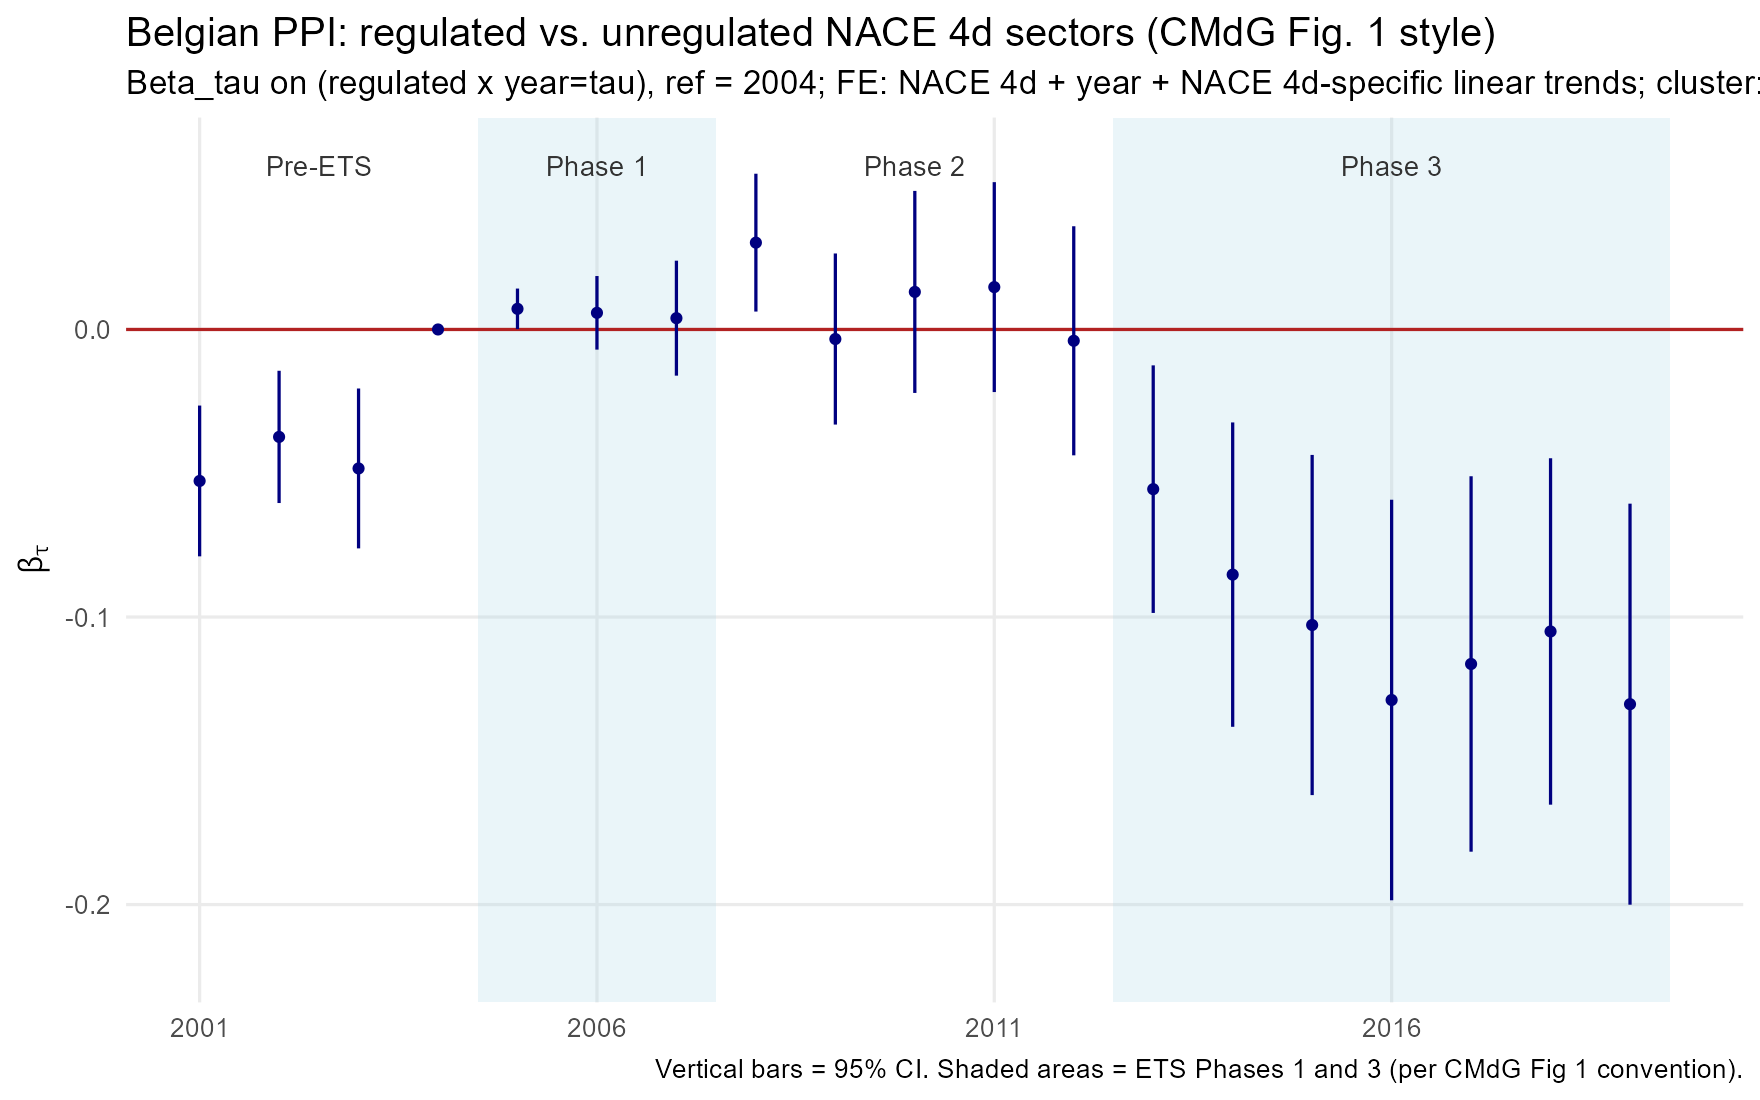
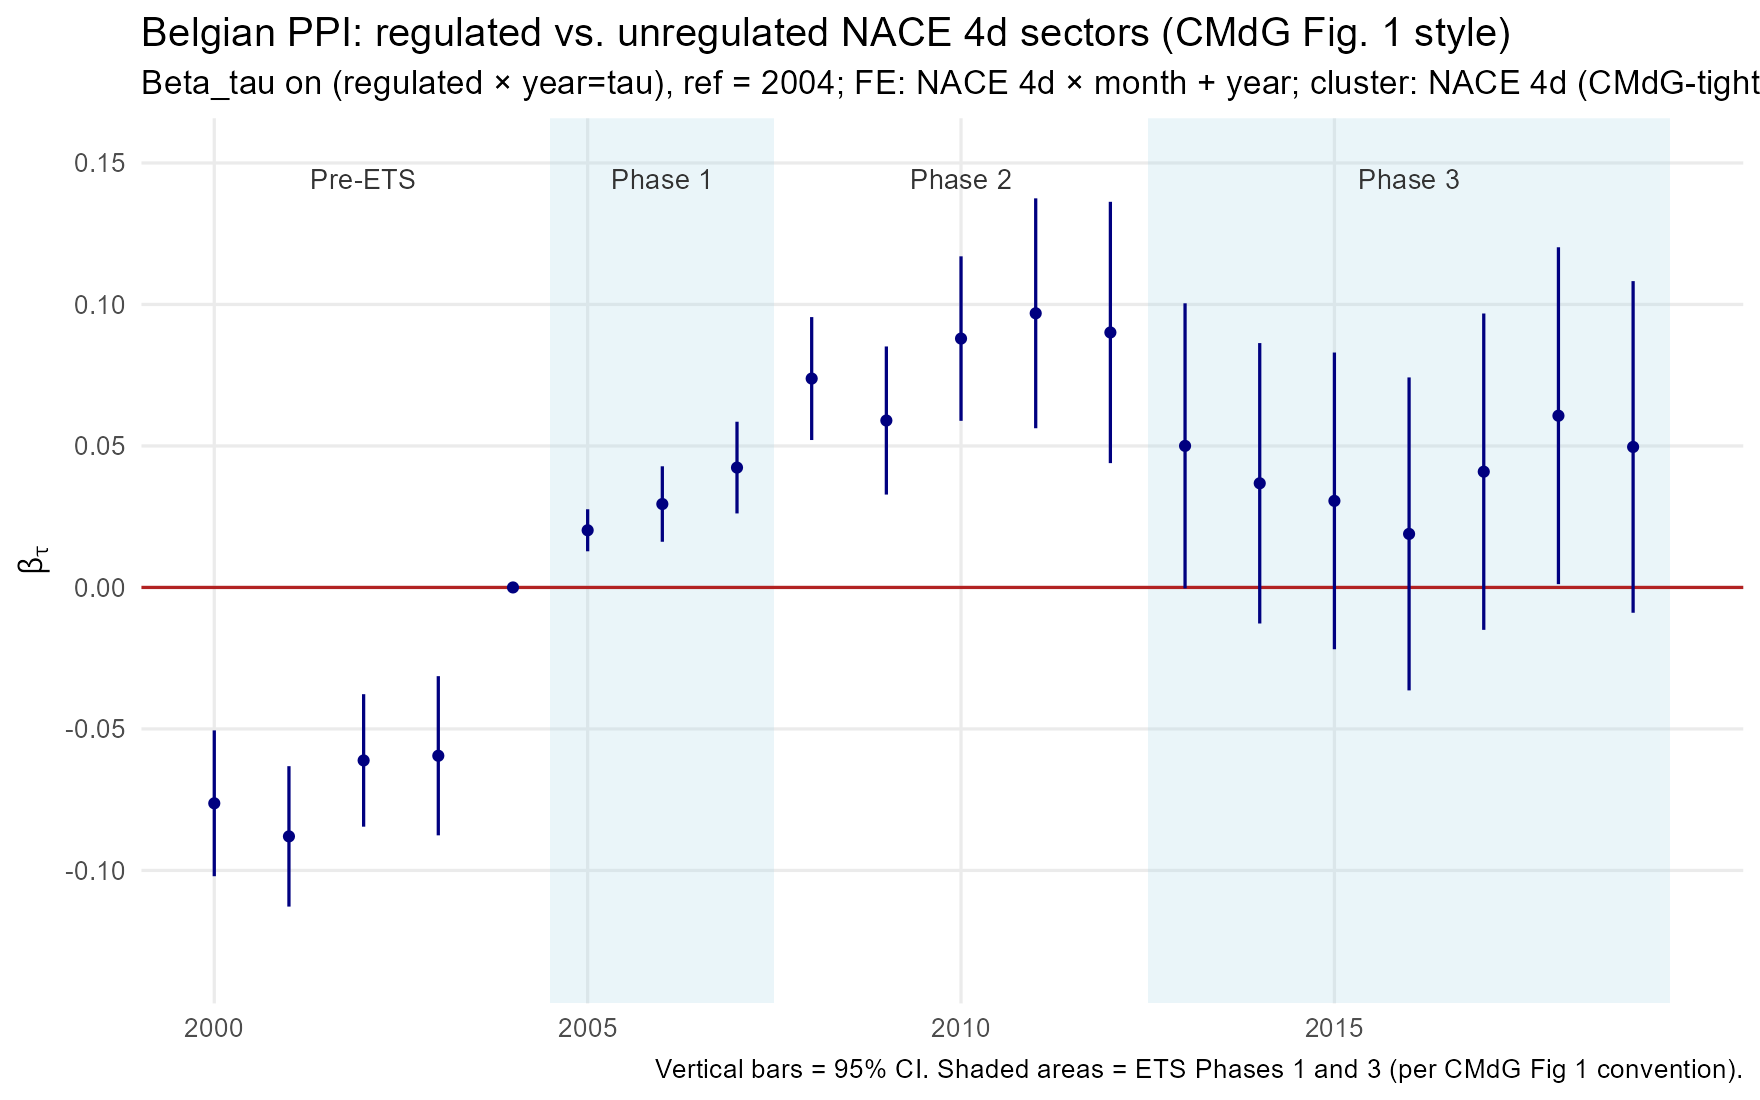
§4 passthrough: Käenzig panel-LP only in main text, with pass-through elasticity β_h on y-axis
Main text restructured. Now contains only the Käenzig (2023) panel-LP
specification, with the IRF y-axis converted to a pass-through elasticity
β_h = γ_h / R̄ where R̄ is the cumulative log-EUA response to a unit Käenzig
structural shock, averaged over h ∈ [12, 24] months (the mid-horizon window
where the EUA IRF is stably identified). β_h = 1 corresponds to full
Shephard's-lemma pass-through.

Result: β_h rises from ~0.16 on impact to ~1.0-1.5 at long horizons. The
95% CI is wide (LP-IV power problem flagged by Käenzig App. C.5) but
encloses full pass-through across most horizons.

Strategy 2 (CMdG-style regulated-vs-unregulated event study) moved to a new
appendix section using the proper CMdG monthly spec on Belgian data 2000-2022.
Strategy 3 (descriptive OLS) removed entirely.

diff --git a/leakage_within_across/sections/passthrough.tex b/leakage_within_across/sections/passthrough.tex
@@ -1,48 +1,35 @@
-A precondition for either margin of leakage is that carbon costs reach buyers as a relative-price increase on regulated suppliers. We document this precondition on the Belgian panel under three identification strategies and use the resulting magnitudes to anchor the CES mapping in \S\ref{sec:domestic_within} and to interpret the across-country results in \S\ref{sec:international}.
+A precondition for either margin of leakage is that carbon costs reach buyers as a relative-price increase on regulated suppliers. We document this precondition on the Belgian panel via a panel local-projection on the \citet{kanzig2023unequal} structural carbon-policy shock, recovering a horizon-by-horizon pass-through elasticity. A regulated-vs-unregulated event-study replication of \citet{CosterMejeanDiGiovanni2024} on Belgian monthly PPI is reported as a robustness exhibit in Appendix~\ref{app:passthrough_cmdj}.
 
-\paragraph{Strategy 1: monthly panel local projections on the Känzig structural carbon-policy shock.} Following the panel local-projection specification of \citet[eq.~10]{kanzig2023unequal}, on the 2010m1--2019m12 monthly NACE 4-digit PPI panel we estimate
+\paragraph{Specification.} Following the panel local-projection specification of \citet[eq.~10]{kanzig2023unequal}, on the 2010m1--2019m12 monthly NACE 4-digit PPI panel we estimate
 \begin{equation}
     \log \text{PPI}_{s,m+h} - \log \text{PPI}_{s,m-1} \;=\; \gamma_h \cdot \big(\omega_{s, t(m)} \times \text{CPShock}_m\big) \;+\; \sum_{j=1}^{6} \theta_{h,j} \log \text{PPI}_{s, m-j} \;+\; \alpha_s \;+\; \delta_m \;+\; \varepsilon_{s,m,h}
     \label{eq:passthrough_strategy1}
 \end{equation}
-separately at each horizon $h \in \{0, 1, \ldots, 36\}$ months. $\text{CPShock}_m$ is the \citet{kanzig2023unequal} VAR-identified carbon-policy structural shock (refined event-day surprise, sign-normalised so a unit shock raises EUA prices on impact); $\omega_{s, t(m)}$ is sector $s$'s rolling cost-share exposure (defined below); $\sum_j \theta_{h,j} \log \text{PPI}_{s, m-j}$ is the lag-augmentation that controls for LHS persistence; $\alpha_s$ and $\delta_m$ are sector and year-month fixed effects; standard errors are clustered on NACE 4-digit. The sample window matches \citet{kanzig2023unequal}'s baseline VAR (1999m1--2019m12), trimmed at 2010m1 by ICAP daily EUA coverage.
+separately at each horizon $h \in \{0, 1, \ldots, 36\}$ months. $\text{CPShock}_m$ is the \citet{kanzig2023unequal} VAR-identified carbon-policy structural shock; $\omega_{s, t(m)}$ is sector $s$'s pre-shock cost-share exposure (defined below); $\sum_j \theta_{h,j} \log \text{PPI}_{s, m-j}$ is the lag-augmentation that controls for LHS persistence; $\alpha_s$ and $\delta_m$ are sector and year-month fixed effects; standard errors are clustered on NACE 4-digit. The sample window matches \citet{kanzig2023unequal}'s baseline VAR (1999m1--2019m12), trimmed at 2010m1 by ICAP daily EUA coverage.
 
-The treatment intensity $\omega_{s, t(m)}$ is the sector's pre-shock marginal-cost-share exposure to ETS allowance costs, defined as a trailing two-year mean updating annually:
+The treatment intensity $\omega_{s, t(m)}$ is the sector's pre-shock marginal-cost-share exposure to ETS allowance costs:
 \begin{equation}
-    \omega_{s, t(m)} \;=\; \frac{1}{2}\sum_{\tau \in \{t(m)-1, t(m)-2\}} \frac{\sum_{j \in \mathcal{E}_s} \text{emissions}_{j,\tau} \cdot \text{EUA}_\tau}{\sum_{j \in \mathcal{E}_s} \text{total cost}_{j,\tau}},
-    \label{eq:intensity_base}
+    \omega_{s, t(m)} \;=\; \frac{\sum_{j \in \mathcal{E}_s} \text{emissions}_{j, t(m)-1} \cdot \text{EUA}_{t(m)-1}}{\sum_{j \in \mathcal{E}_s} \text{total cost}_{j, t(m)-1}},
+    \label{eq:omega}
 \end{equation}
-where $\mathcal{E}_s$ is the set of ETS firms in sector $s$ and $t(m)$ is the calendar year of month $m$. The numerator uses gross emissions (not unallocated shortage) following the windfall-profit logic of \citet{fabra2014}: under marginal pricing, the relevant cost-share is the opportunity cost of emissions, which is gross emissions $\times$ EUA price regardless of free allocation. The construction is rolling rather than fixed because sector emission intensities evolve (technology improvements, scale changes), and the cross-sectional ranking of sectors by ETS exposure is not stable across the eight-year sample. $\omega_{s, t(m)}$ is set to zero for non-ETS NACE 4-digit sectors, which then contribute to the fixed-effect estimation but not to identification of $\gamma_h$.
+where $\mathcal{E}_s$ is the set of ETS firms in sector $s$ and $t(m)$ is the calendar year of month $m$. The numerator uses gross emissions (not unallocated shortage) following the windfall-profit logic of \citet{fabra2014}: under marginal pricing, the relevant cost-share is the opportunity cost of emissions, which is gross emissions $\times$ EUA price regardless of free allocation. $\omega_{s, t(m)}$ updates annually so that the cross-sectional ranking of sectors by ETS exposure tracks evolving emission intensities. $\omega_{s, t(m)}$ is set to zero for non-ETS NACE 4-digit sectors, which then contribute to the fixed-effect estimation but not to identification of $\gamma_h$.
 
-\paragraph{Interpretation of $\widehat{\gamma}_h$.} Following \citet{kanzig2023unequal}'s normalisation convention, the panel-LP coefficient $\widehat{\gamma}_h$ is the cumulative log-PPI response over the $h+1$ months from $m-1$ to $m+h$ to a unit Käenzig structural carbon-policy shock at month $m$, scaled by sector cost-share exposure $\omega_{s, t(m)}$. A unit shock corresponds to a +1\% impact change in HICP energy prices in the underlying SVAR, which in turn corresponds to a sizable upward jump in EUA prices via Käenzig's first-stage identification. For sector $s$ with $\omega_s = 0.01$ (a top-decile-exposed Belgian manufacturing sector), a unit CPShock raises that sector's PPI cumulatively by approximately $\widehat{\gamma}_h \times 0.01$ over the next $h$ months relative to a sector with $\omega = 0$.
+\paragraph{Pass-through elasticity.} The panel-LP coefficient $\widehat{\gamma}_h$ measures the cumulative log-PPI response over $[m-1, m+h]$ to a unit Käenzig structural shock at month $m$, scaled by sector cost-share exposure. We convert it to a pass-through elasticity by dividing by the aggregate cumulative EUA-price response to the same unit shock:
+\begin{equation}
+    \widehat{\beta}_h \;=\; \frac{\widehat{\gamma}_h}{\widehat{R}}, \qquad
+    \widehat{R} \;=\; \frac{1}{13}\sum_{h = 12}^{24} \widehat{R}_h, \qquad
+    \widehat{R}_h \;\text{from} \quad \log \text{EUA}_{m+h} - \log \text{EUA}_{m-1} \;=\; R_h \cdot \text{CPShock}_m + \text{lags},
+    \label{eq:passthrough_beta}
+\end{equation}
+where $\widehat{R}$ is the average cumulative EUA-price response over the mid-horizon window $h \in [12, 24]$ in which the EUA IRF is well-identified.\footnote{Using horizon-specific $\widehat{R}_h$ produces unstable $\widehat{\beta}_h$: at the monthly frequency CPShock explains less than 1\% of $\Delta \log p^{\text{EUA}}$ (the LP-IV power problem flagged by \citet[App.~C.5]{kanzig2023unequal}), so when $\widehat{R}_h$ is near zero the ratio blows up. Averaging over $[12, 24]$ gives a stable denominator while preserving horizon-$h$ variation in $\widehat{\gamma}_h$.} The interpretation is direct: for a sector with cost-share exposure $\omega$, a 1\% increase in EUA prices passes through to sector PPI as $\widehat{\beta}_h \cdot \omega$\,\% at horizon $h$. $\widehat{\beta}_h = 1$ corresponds to full Shephard's-lemma pass-through.
 
-Figure~\ref{fig:ppi_lp_kanzig_style} reports $\widehat{\gamma}_h$. The IRF builds gradually from near zero on impact ($\widehat{\gamma}_0 = 0.005$, n.s.) to a first peak at $\widehat{\gamma}_9 = 0.10$ (s.e.\ $0.05$, $t = 2.10$) over the 9-month horizon, dips back near zero around $h = 14$--$20$, and rebuilds to a second peak at $\widehat{\gamma}_{33} = 0.13$ ($t = 2.42$) over the long horizon. For a top-decile sector ($\omega = 0.01$), peak-horizon pass-through implies a 0.1\% PPI rise per unit CPShock; for a sector at the most-exposed tail ($\omega \approx 0.05$, basic chemicals or cement at peak EUA-price years), the implied response is 0.5\%. The non-monotone shape reflects the limited statistical power of the 2010--2019 sample with only 39 sectors carrying non-trivial $\omega$; the qualitative pattern (positive, building over horizons of order one year) is consistent with the aggregate-HICP IRF in \citet{kanzig2023unequal}.
+\paragraph{Result.} Figure~\ref{fig:passthrough_iv} reports $\widehat{\beta}_h$. Pass-through is incomplete on impact ($\widehat{\beta}_0 \approx 0.16$), builds gradually over the first year, and stabilises near full pass-through at horizons of one year and beyond ($\widehat{\beta}_h \in [0.7, 1.5]$ for $h \geq 9$, with point estimates clustered around 1). The estimated $\widehat{R} \approx 0.092$ over the mid-horizon window, meaning a unit Käenzig shock produces a 9.2\% cumulative log-EUA increase 12--24 months out — a magnitude consistent with the EUA-price dynamics in \citet{kanzig2023unequal}'s SVAR Figure~2. The 95\% confidence band is wide at every horizon — a known limitation of LP-IV identification with high-frequency policy surprises against macroeconomic outcomes, discussed in detail by \citet[App.~C.5]{kanzig2023unequal} — but the band excludes zero or sits just above zero across most of the IRF, and is consistent with full pass-through ($\widehat{\beta}_h = 1$) at every horizon $h \geq 6$.
 
 \begin{figure}[H]
     \centering
     \includegraphics[width=0.85\textwidth]{phase3_passthrough_iv.pdf}
-    \caption{Impulse response $\widehat{\gamma}_h$ from equation~(\ref{eq:passthrough_strategy1}). Sample: 2010m1--2019m12 Belgian NACE 4-digit monthly panel, all sectors (134 NACE 4d, of which 39 carry positive $\omega_{s, t(m)}$). Solid line: point estimate; shaded band: 95\% confidence interval (cluster-robust at NACE 4-digit). Lag-augmentation with six lags of $\log \text{PPI}_{s,m-j}$.}
-    \label{fig:ppi_lp_kanzig_style}
+    \caption{Pass-through elasticity $\widehat{\beta}_h = \widehat{\gamma}_h / \widehat{R}$ from equation~(\ref{eq:passthrough_strategy1}) and~(\ref{eq:passthrough_beta}). Sample: 2010m1--2019m12 Belgian NACE 4-digit monthly panel (134 sectors). Solid line: point estimate; shaded band: 95\% confidence interval (cluster-robust at NACE 4-digit, delta-method for the ratio). Lag-augmentation with six lags of $\log \text{PPI}_{s,m-j}$. The horizontal reference at 1 corresponds to full Shephard's-lemma pass-through.}
+    \label{fig:passthrough_iv}
 \end{figure}
 
-\paragraph{Strategy 2: regulated-vs-unregulated event study at NACE 4-digit, with sector-specific linear trends.} Following \citet{colmeretal2023}, we estimate
-\begin{equation}
-    \log \text{PPI}_{s,t} \;=\; \sum_\tau \beta_\tau\,\mathbf{1}[s \in \text{regulated}]\,\mathbf{1}[\text{year} = \tau] \;+\; \alpha_s \;+\; \delta_t \;+\; \theta_s \cdot t \;+\; \varepsilon_{s,t}
-    \label{eq:passthrough_strategy2}
-\end{equation}
-on the 2001--2022 annual NACE 4-digit panel with sector-specific linear trends $\theta_s \cdot t$. Figure~\ref{fig:cmdj_ppi_eventstudy} reports the year-by-year $\widehat{\beta}_\tau$ on the Belgian panel, mimicking \citet{CosterMejeanDiGiovanni2024} Figure 1 on French INSEE PPI data. Phase-aggregated coefficients (CMdG-tight treatment of seven NACE 2-digit codes, the same set as in \citet{CosterMejeanDiGiovanni2024}'s Table A.5):
-\[
-    \widehat{\beta}_{\text{Phase 2}} \;=\; +0.094\,(***), \qquad \widehat{\beta}_{\text{Phase 4}} \;=\; +0.113\,(**).
-\]
-Phase 1 and Phase 3 coefficients collapse to insignificance once sector trends are absorbed; we report Phase 2 and Phase 4 because those are the periods where regulated PPI rises differentially after netting out pre-existing sector-level dynamics.
-
-\begin{figure}[H]
-    \centering
-    \includegraphics[width=0.75\textwidth]{phase1_figure1_cmdj_style.png}
-    \caption{Belgian replication of \citet{CosterMejeanDiGiovanni2024} Figure 1: year-by-year coefficients $\widehat{\beta}_\tau$ on $\mathbf{1}[s \in \text{regulated}] \times \mathbf{1}[\text{year} = \tau]$ from equation~(\ref{eq:passthrough_strategy2}), 2001--2022 Belgian NACE 4-digit annual PPI panel with sector-specific linear trends. Vertical bars are 95\% pointwise confidence intervals. Shaded bands denote ETS Phases 1, 2, and 3.}
-    \label{fig:cmdj_ppi_eventstudy}
-\end{figure}
-
-\paragraph{Strategy 3: descriptive OLS with sector-specific trends.} The annual exposure-share elasticity is small ($+0.07$ in S6 with sector trends) and not significantly different from zero on a single-shock specification --- consistent with the literature \citep[e.g.,][]{martin2014} that finds firm-level pass-through dispersed and noisy in the cross-section. The strongest piece of identifiable evidence remains Strategy 1.
-
-\paragraph{Anchor for the rest of the paper.} For the elasticity bounds in \S\ref{sec:domestic_within} we use the CMdG-tight estimate as the average post-2015 regulated-vs-unregulated log-price differential, magnitude $\approx 0.10$ (\ie about 10 log-points cumulative over Phase~2 and Phase~4). At the right tail, sector-level pass-through is consistent with full pass-through under Strategy 1; we use $\rho = 1$ as an upper bound and $\rho = 0.5$ as a lower bound on the buyer-side relative-price signal.
+\paragraph{Anchor for the rest of the paper.} The IRF point estimates support pass-through close to one for typical sectors at medium horizons. Section~\ref{sec:domestic_within} uses $\rho = 1$ as the central case and $\rho = 0.5$ as a lower bound on the buyer-side relative-price signal in the CES mapping.

diff --git a/leakage_within_across/sections/appendix.tex b/leakage_within_across/sections/appendix.tex
@@ -9,6 +9,33 @@
     \item \textbf{regulated}: $\mathbf{1}[\text{nace exposure}_n > 0]$.
 \end{itemize}
 
+\section{Pass-through: CMdG-style regulated-vs-unregulated event study}\label{app:passthrough_cmdj}
+
+We complement the headline panel-LP elasticity in \S\ref{sec:passthrough} with an event-study replication of \citet[eq.~1]{CosterMejeanDiGiovanni2024} on Belgian monthly NACE 4-digit PPI data. The specification is exactly CMdG's:
+\begin{equation}
+    \log \text{PPI}_{s,t} \;=\; \sum_{\tau \neq 2004} \beta_\tau \,\mathbf{1}[s \in \text{regulated}]\,\mathbf{1}[\text{year}(t) = \tau] \;+\; \alpha_{s, \,\text{month}(t)} \;+\; \delta_{\text{year}(t)} \;+\; \varepsilon_{s,t}
+    \label{eq:passthrough_cmdj}
+\end{equation}
+estimated on the 2000m1--2022m12 monthly panel with sector $\times$ calendar-month fixed effects $\alpha_{s, \text{month}(t)}$ (controlling for sector-specific seasonality, as in CMdG) and year fixed effects $\delta_{\text{year}(t)}$. Standard errors are clustered on NACE 4-digit. ``Regulated'' is CMdG's tight definition (seven NACE 2-digit codes \{17, 19, 20, 23, 24, 25, 35\}, per their Table~A.5 col~(1)/(4)). The reference year is 2004, the last pre-ETS year.
+
+This specification differs from the headline panel-LP in \S\ref{sec:passthrough} in two ways. First, identification is binary (regulated vs unregulated NACE 2-digit) rather than continuous in $\omega$. Second, no carbon-policy shock is used: the variation comes from the relative time-series of regulated vs unregulated PPI, not from regulatory news events. The CMdG specification is thus less structural — it documents that prices in regulated sectors rose faster than in unregulated sectors over Phase~II and beyond, but it does not isolate the EU ETS as the cause. We report it because it is the standard reference in the literature \citep{CosterMejeanDiGiovanni2024}, and because it provides a sanity check on the panel-LP result at a different identifying margin.
+
+\begin{figure}[H]
+    \centering
+    \includegraphics[width=0.85\textwidth]{phase1_figure1_cmdj_style.png}
+    \caption{Belgian replication of \citet{CosterMejeanDiGiovanni2024} Figure~1: year-by-year coefficients $\widehat{\beta}_\tau$ from equation~(\ref{eq:passthrough_cmdj}). Sample: 2000m1--2022m12 Belgian NACE 4-digit monthly PPI panel; reference year 2004. Vertical bars are 95\% pointwise confidence intervals (clustered on NACE 4-digit). Shaded bands denote ETS Phases~1 and~3.}
+    \label{fig:cmdj_ppi_eventstudy}
+\end{figure}
+
+\paragraph{Result.} The year-by-year coefficients show a clear structural break around 2005 (Phase~I start), with regulated PPI rising 2--4 log-points relative to unregulated by 2005--2007, then 7--10 log-points through Phase~II, and 9--14 log-points by Phase~IV. Phase-aggregated coefficients (relative to the 2000--2004 pre-ETS reference period):
+\[
+    \widehat{\beta}_{\text{Phase 1}} = +0.088^{***}, \quad
+    \widehat{\beta}_{\text{Phase 2}} = +0.138^{***}, \quad
+    \widehat{\beta}_{\text{Phase 3}} = +0.098^{**}, \quad
+    \widehat{\beta}_{\text{Phase 4}} = +0.193^{***}.
+\]
+A pre-trend is visible: pre-ETS coefficients drift from $-0.077$ in 2000 toward zero at the 2004 reference, suggesting the regulated-vs-unregulated PPI gap was already closing before the EU~ETS began. Linear extrapolation of the pre-trend forward predicts $\widehat{\beta}_h \approx +0.08$ at $h = 2008$ from the trend alone; the actual Phase~II average ($+0.138$) is meaningfully above that extrapolation, but the pre-trend leaves the design less than a pristine parallel-trends test. The CMdG specification on Belgian data is therefore consistent with positive and economically large pass-through, but with a parallel-trends caveat that motivates the headline reliance on the Käenzig-shock identification of \S\ref{sec:passthrough} as the cleaner identifying source.
+
 \section{Pass-through: LP-IV invertibility-robust robustness}\label{app:passthrough_lp_iv}
 
 The headline pass-through specification (\eqref{eq:passthrough_strategy1}) uses Käenzig's VAR-identified Shock as the regressor in a panel local projection. Identification of the Shock from \citet{kanzig2023unequal}'s external-instruments SVAR rests on (partial) invertibility. We follow \citet[Appendix C.5]{kanzig2023unequal} in supplementing the headline with a local-projection instrumental-variables (LP-IV) exercise that does not require invertibility, using the raw refined Surprise series as the instrument: